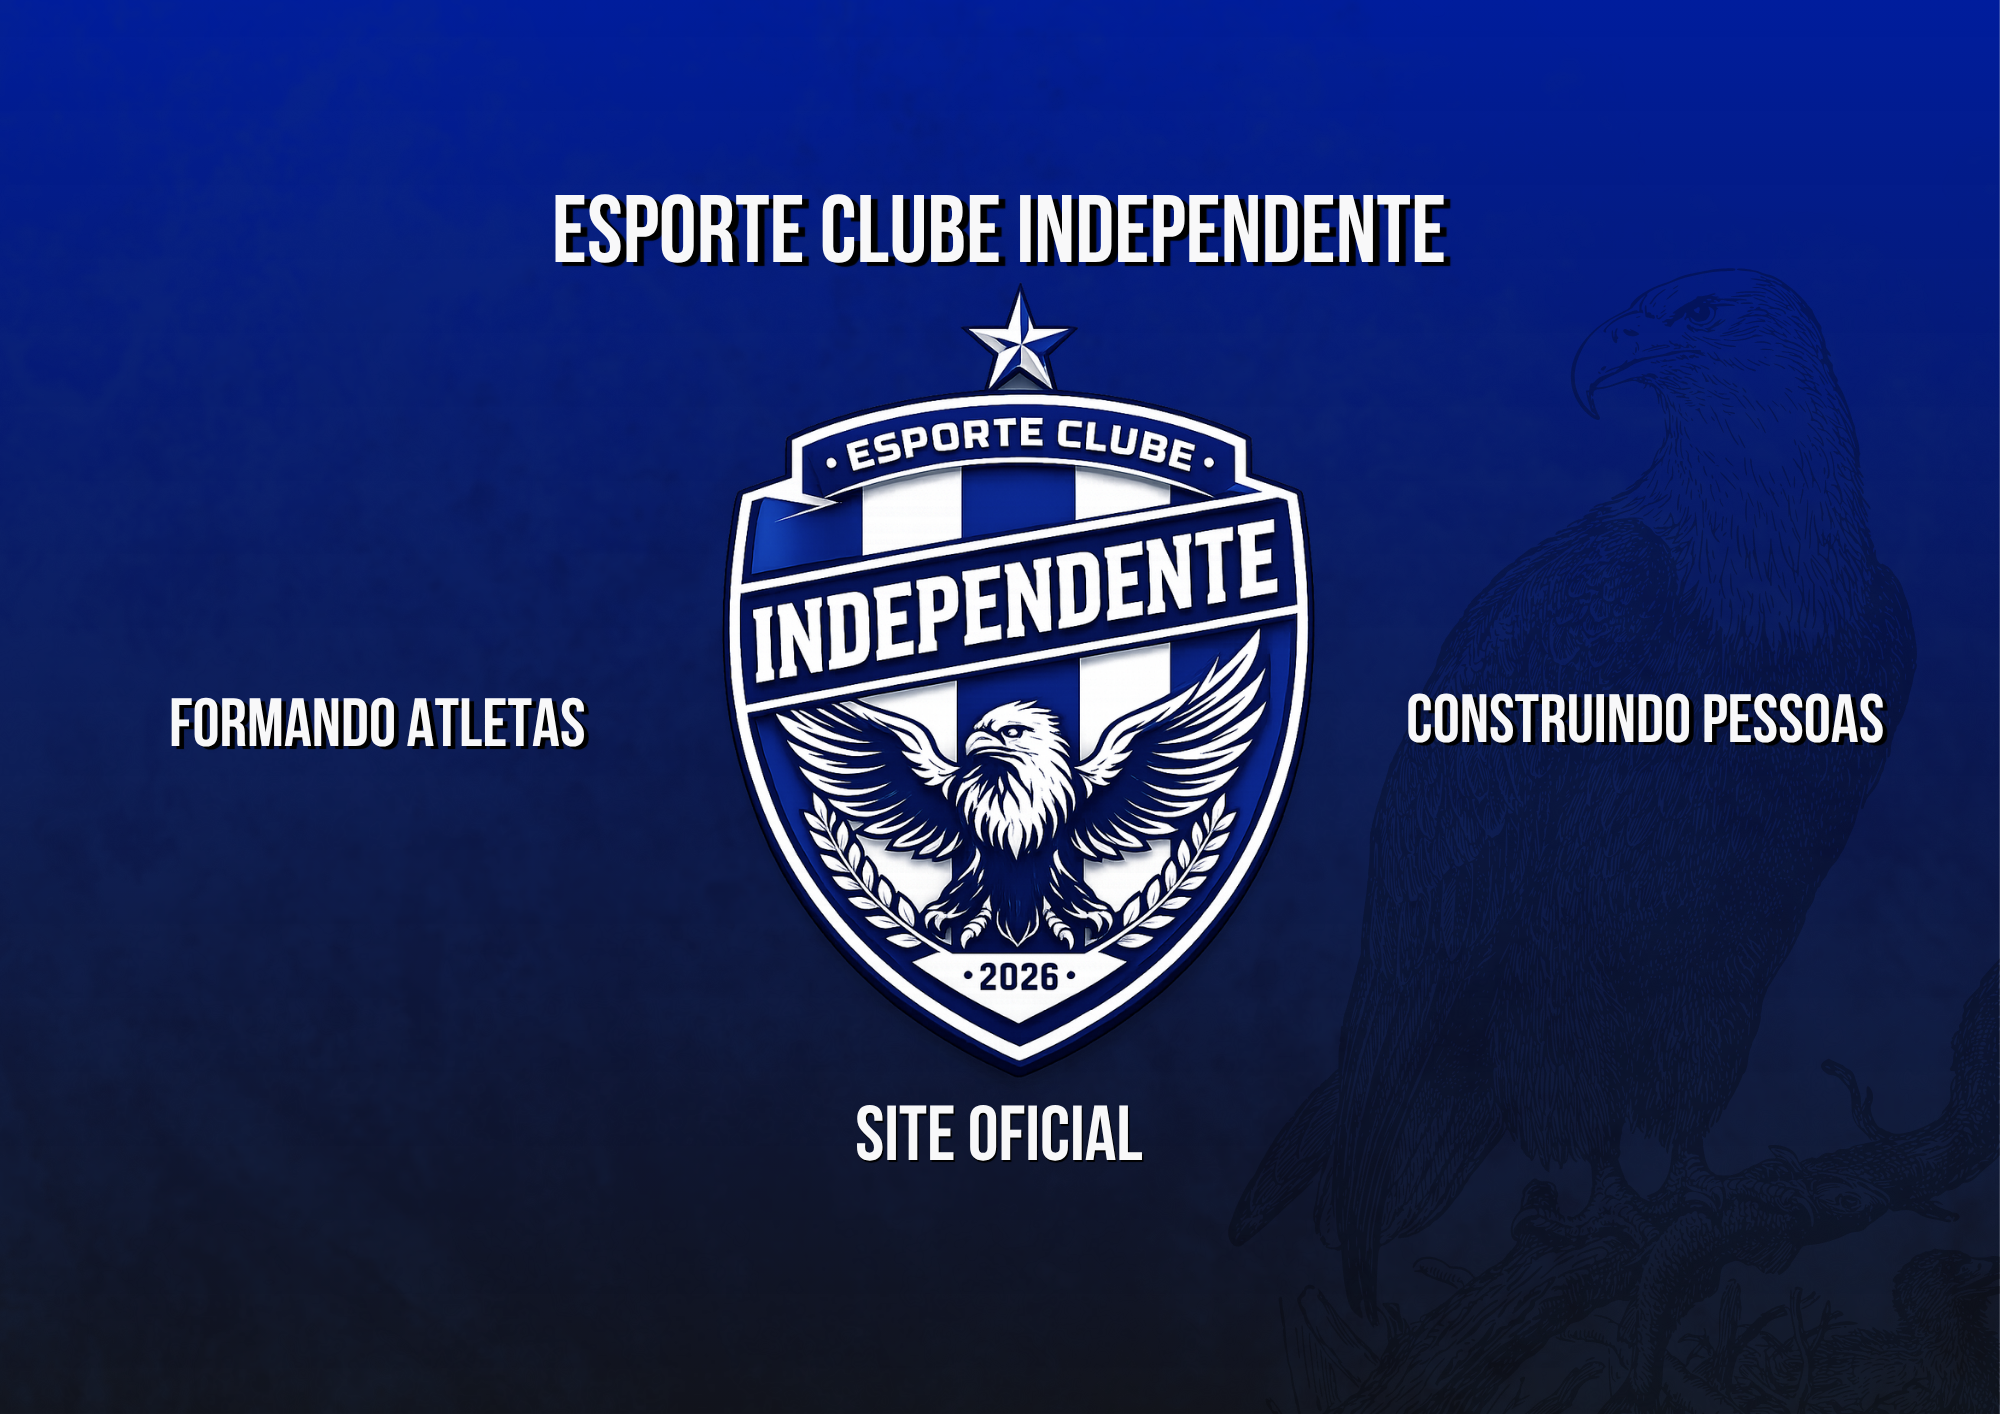
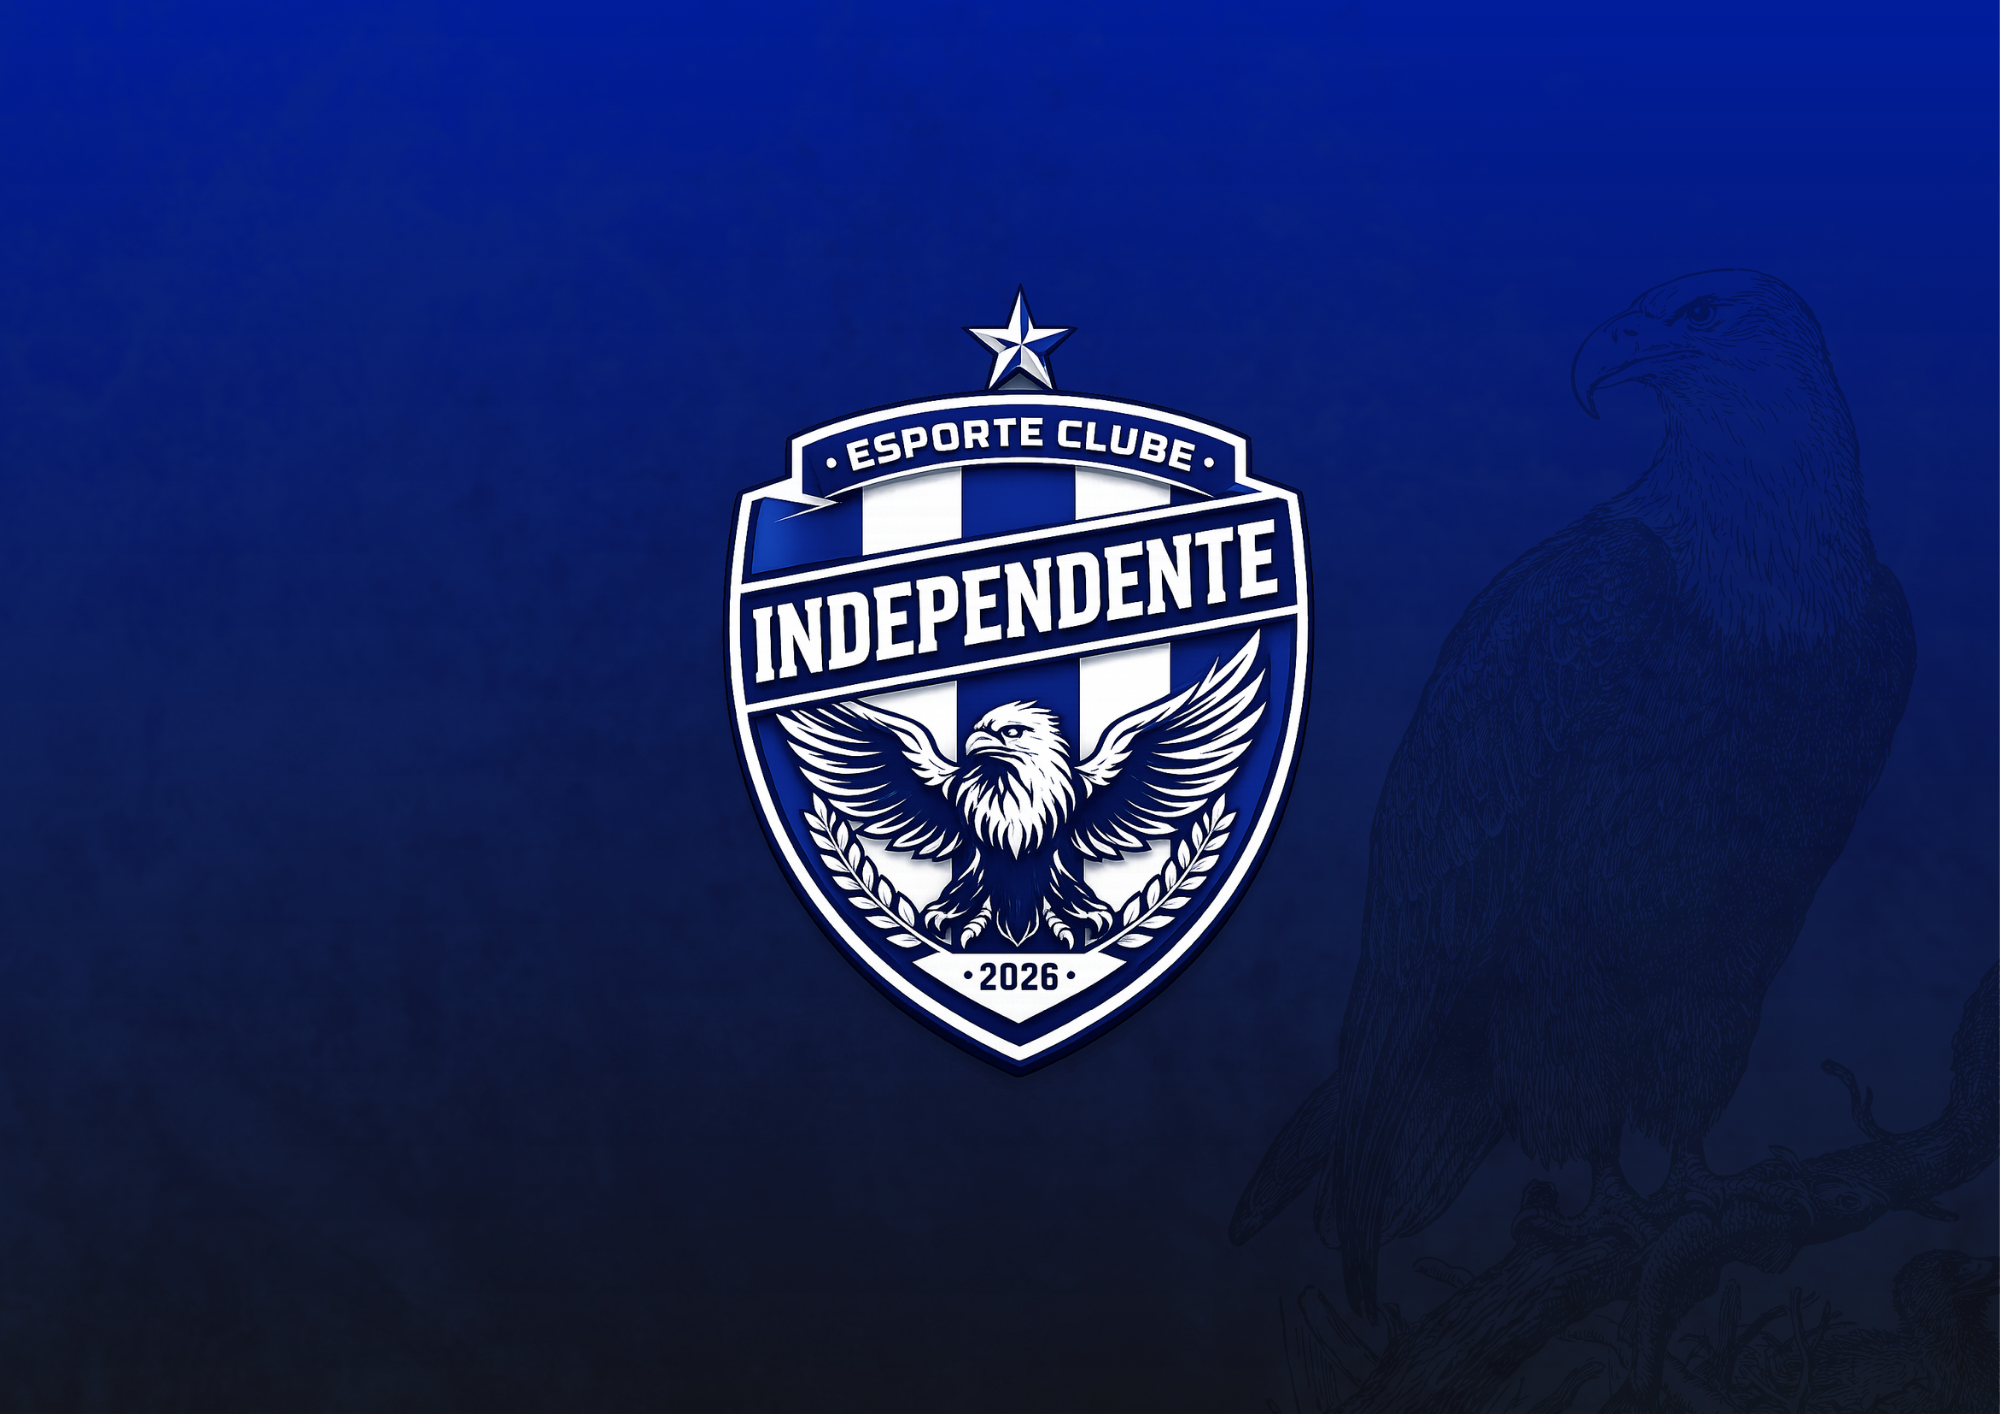
NEW

diff --git a/index.html b/index.html
@@ -1393,7 +1393,7 @@ CTA MATRÍCULA
                     <h3>Matrícula</h3>
 
                     <span class="valor">
-                        R$ 50,00
+                        R$ EM BREVE
                     </span>
 
                 </div>
@@ -1412,7 +1412,7 @@ CTA MATRÍCULA
                     <h3>Uniforme Oficial</h3>
 
                     <span class="valor">
-                        R$ 150,00
+                        R$ EM BREVE
                     </span>
 
                 </div>
@@ -1429,7 +1429,7 @@ CTA MATRÍCULA
 
             <small>Investimento Inicial</small>
 
-            <strong>R$ 200,00</strong>
+            <strong>R$ EM BREVE</strong>
 
             <p>
                 Após esse investimento, o aluno paga apenas a mensalidade da modalidade.